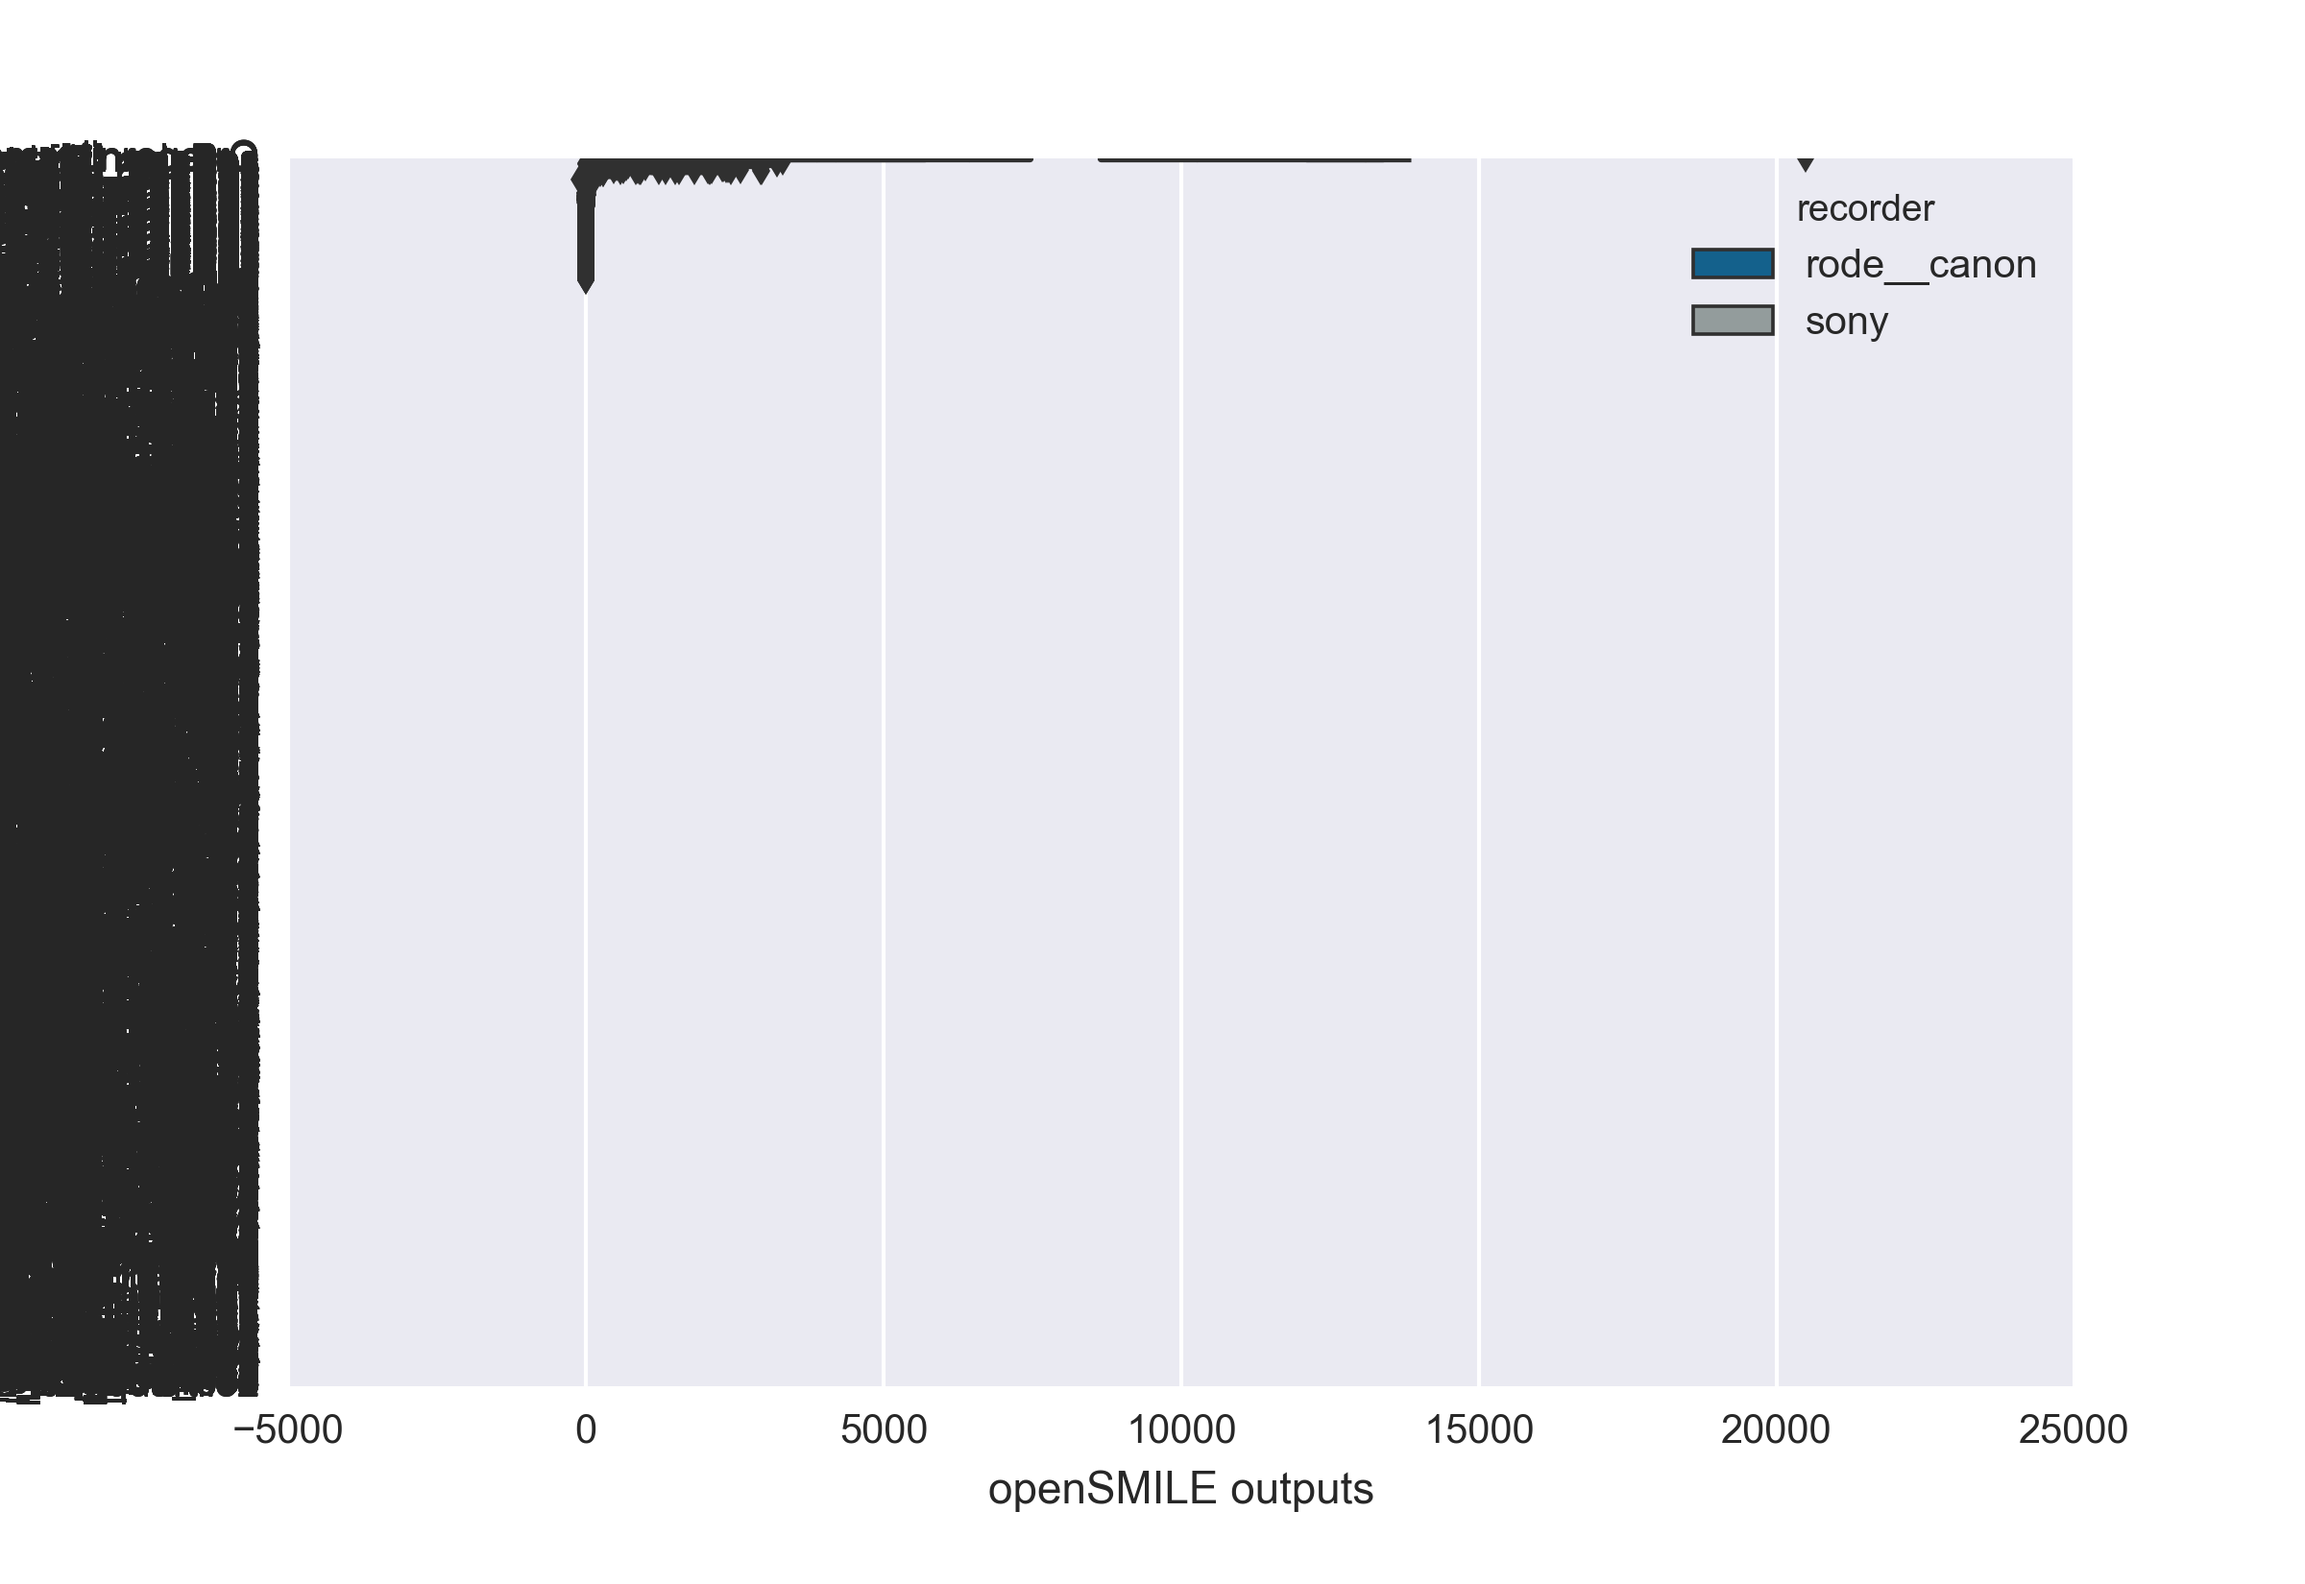
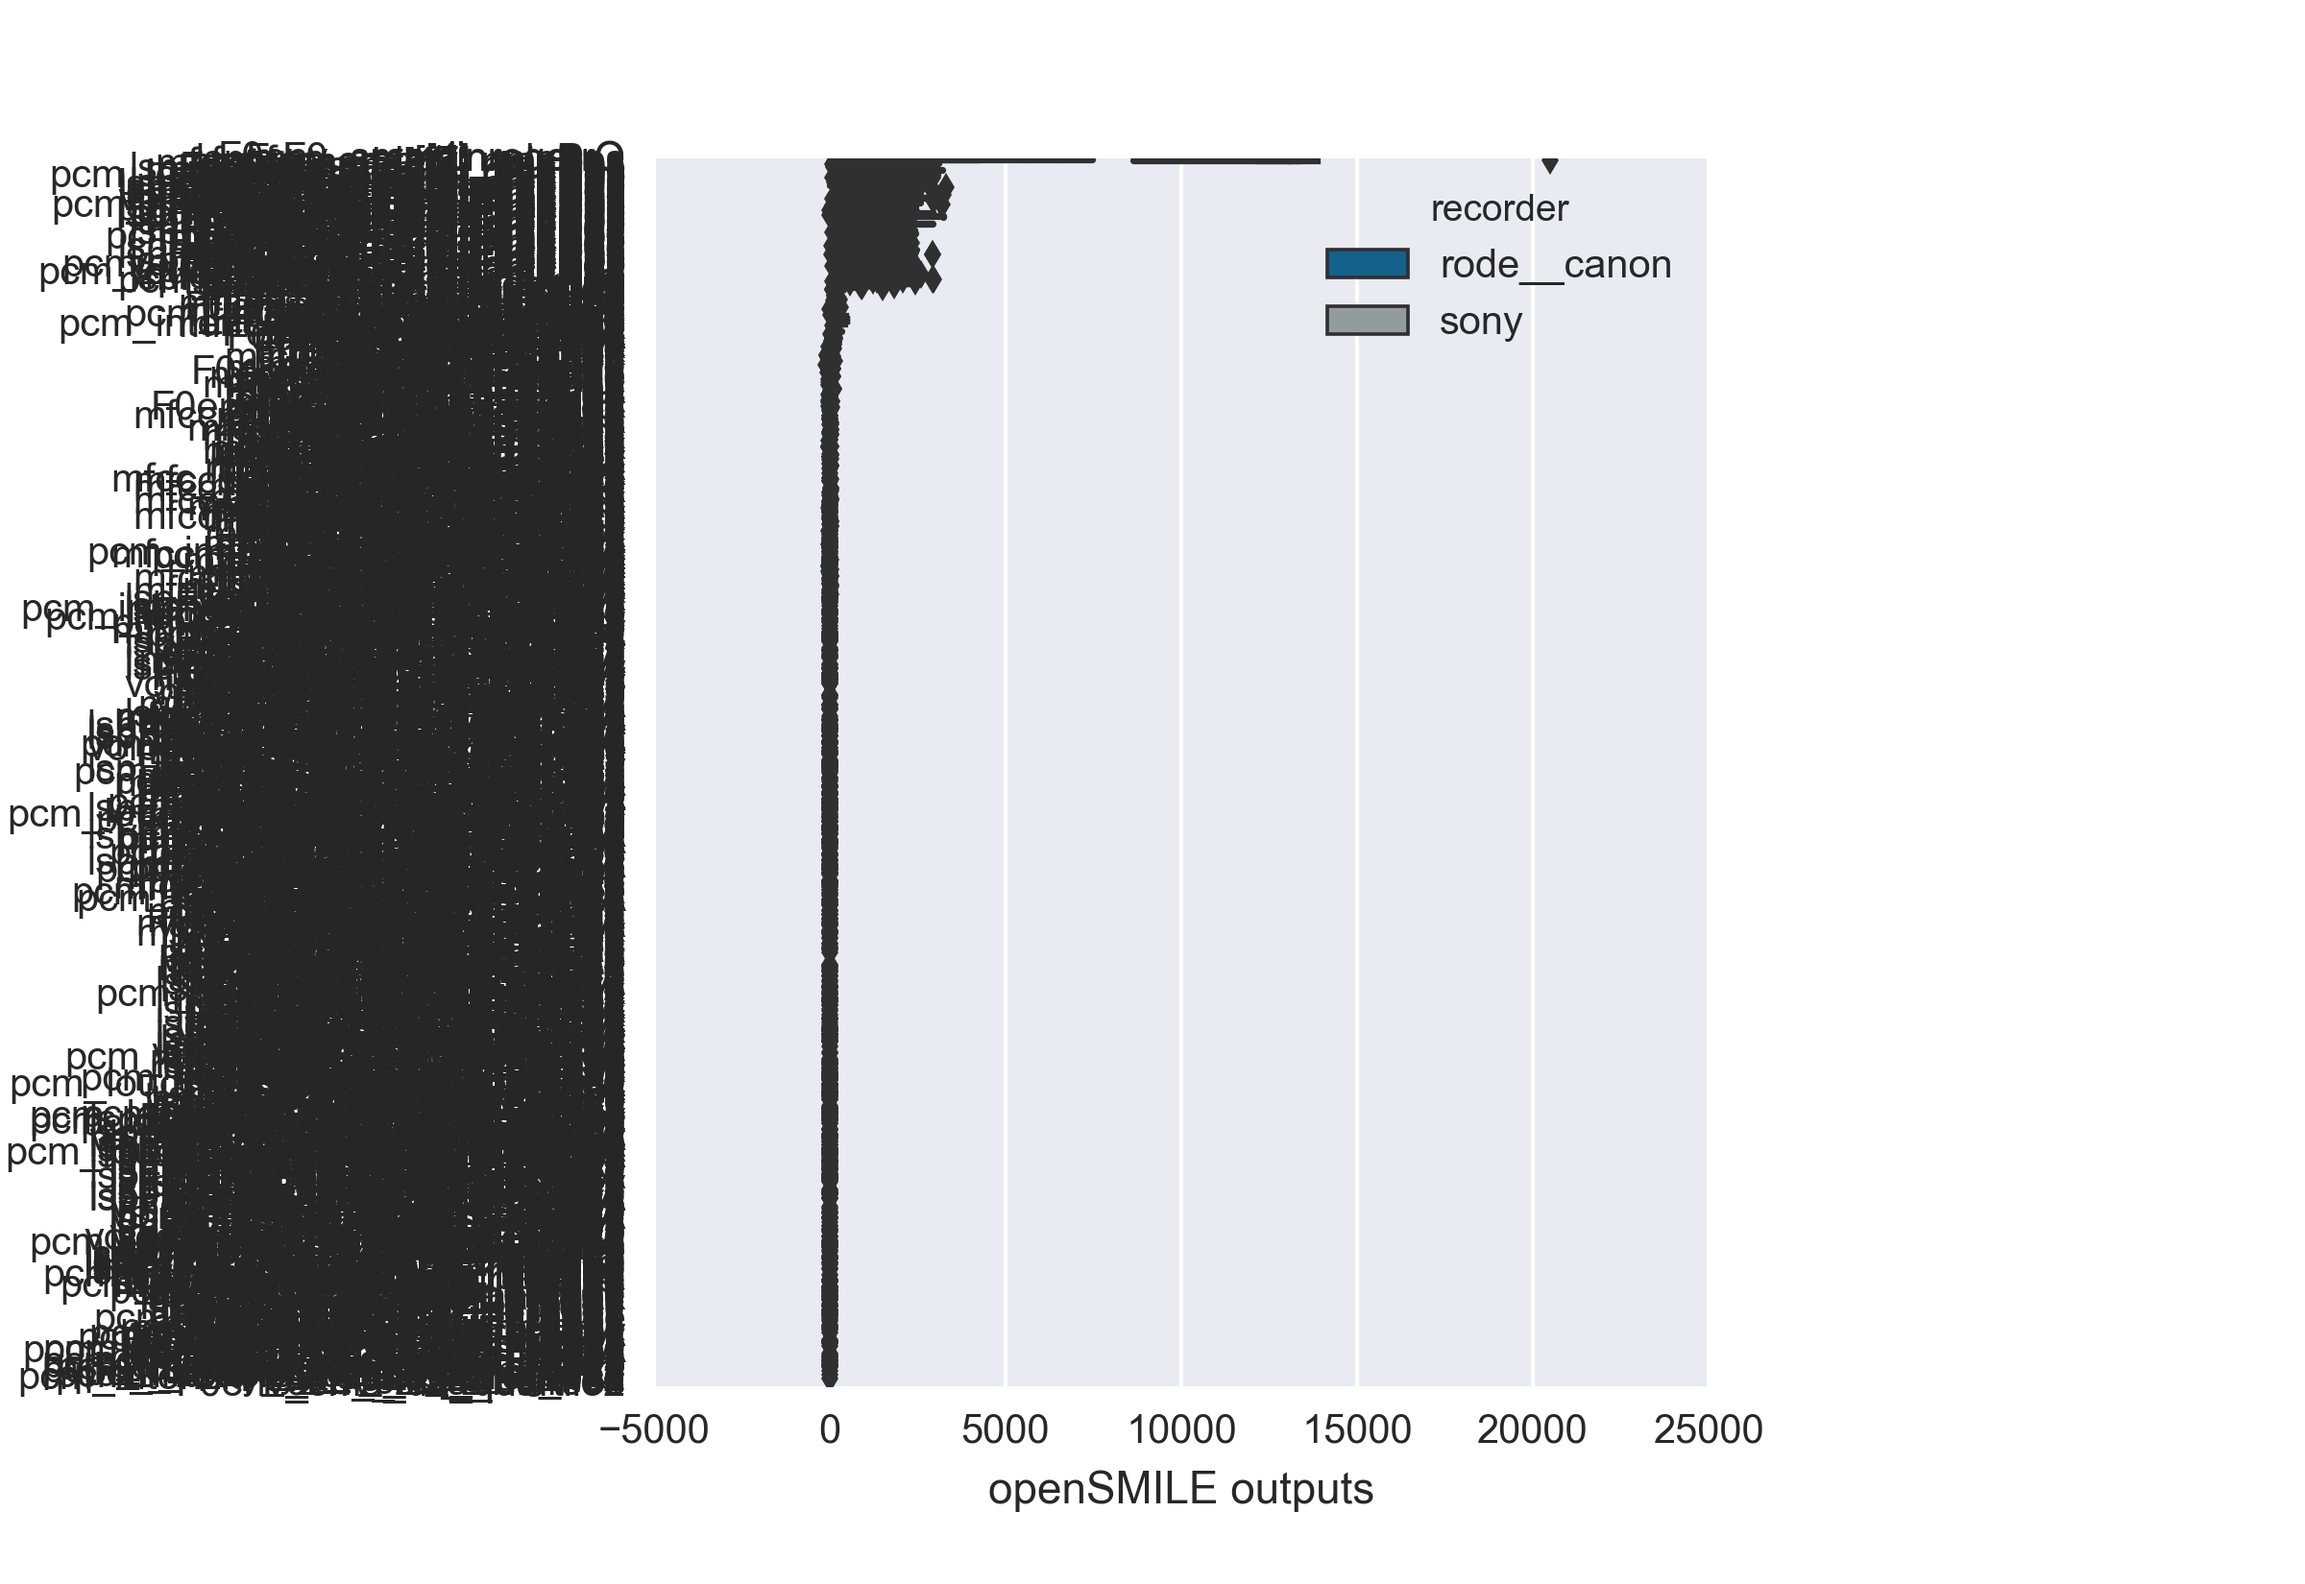
generalize

diff --git a/test_equipment/recorder_box_plots.py b/test_equipment/recorder_box_plots.py
@@ -11,15 +11,16 @@ Author:
 
 © 2017, Child Mind Institute, Apache v2.0 License
 """
-import numpy as np, openSMILE_dir_to_csv as odtc, os, pandas as pd, \
-       matplotlib.pyplot as plt, seaborn as sns, subprocess
+import os, sys
+if os.path.abspath('../..') not in sys.path:
+    sys.path.append(os.path.abspath('../..'))
+from SM_openSMILE.utilities import cmi_color_pallette as ccp
+import openSMILE_dir_to_csv as odtc, pandas as pd, matplotlib.pyplot as plt, \
+       seaborn as sns, subprocess
+
+sns.set_palette(ccp.cmi_colors())
 
 def plot(dataframe, directory):
-    cmi_colors = ["#0067a0", "#919d9d", "#00c1d5", "#b5bd00", "#a31c3f",
-                  "#ea234b", "#eeae30", "#f2cd32", "#4db789", "#90d9b9",
-                  "#404341", "#e4e4e4", "#090e3c", "#242a6a", "#97e2ef",
-                  "#f9e28a", "#d3da5f"]
-    sns.set_palette(cmi_colors)
     dataframe = dataframe.drop(['mean', 'median', 'std', 'mad'], axis=1)
     dataframe = dataframe.T
     indices = list(dataframe.index)
@@ -51,8 +52,9 @@ def plot(dataframe, directory):
     plt.close()
     h = sns.boxplot(x="openSMILE outputs", y="features", hue="recorder", data=
                     df_long)
-    plt.yticks(np.arange(len(df_long['features'].unique())), df_long['features'
-               ].unique())
+    h.set_aspect(28/len(df_long['features'].unique()))
+    # plt.yticks(np.arange(len(df_long['features'].unique())), df_long['features'
+    #           ].unique())
     # plt.tight_layout()
     fig_h = h.get_figure()
     fig_h.savefig(os.path.join(directory, "collected/horizontal_boxplot.png"), 
@@ -62,7 +64,8 @@ def plot(dataframe, directory):
     
 
 def main():
-    tippy_top = "/Users/jon.clucas/SM_openSMILE/test_equipment/recorder_test"
+    tippy_top = input("Top directory for recorder test: ")
+    # tippy_top = "/Users/jon.clucas/SM_openSMILE/test_equipment/recorder_test"
     top_dirs = [os.path.join(tippy_top, "sentences/ComParE_2016"),
                 os.path.join(tippy_top, "sentences/emobase"),
                 os.path.join(tippy_top, "word_list/ComParE_2016"),

diff --git a/openSMILE_runSM/openSMILE_csv.py b/openSMILE_runSM/openSMILE_csv.py
@@ -99,8 +99,11 @@ def get_dx_dictionary():
     # initialize diagnosis dictionary
     dx_dictionary = {}
     # absolute path to 2 column *.csv file with 'URSI' and 'Dx?' column headers
+    dictionary_csv = input("Diagnosis dictionary filepath: ")
+    """
     dictionary_csv = ('/Volumes/data/Research/CDB/SM_Sound_Analysis/'
                       'SM_DX_summary_status_dx.csv')
+    """
     # read file into dictionary with URSI keys and Dx values
     with open(dictionary_csv, 'r') as f:
         reader = csv.DictReader(f)
@@ -131,8 +134,11 @@ def create_sample_row(ursi, condition, config_file):
     sample_row_short = []
     sample_row_long = []
     # set absolute top directory for input *.csv files
+    topdir = input("Top directory for input *.csv files: ")
+    """
     topdir = ('/Volumes/data/Research/CDB/SM_Sound_Analysis/all_audio_files/'
               'NEW/')
+    """
     # get diagnosis dictionary
     dx_dict = get_dx_dictionary()
     # find participant directory
@@ -194,8 +200,11 @@ def create_samples(config_file):
         sample_short[condition] = []
         sample_long[condition] = []
     # set absolute path of top directory
+    topdir = input("Top directory for *.csv files: ")
+    """
     topdir = ('/Volumes/data/Research/CDB/SM_Sound_Analysis/all_audio_files/'
               'NEW/')
+    """
     for dirs in os.listdir(topdir):
         # do not include hidden files or directories
         # only take URSI directories
@@ -212,7 +221,8 @@ def create_samples(config_file):
                     # tell if something is missing
                     print (dirs + ' ' + condition)
     # set absolute path of output directory
-    out_top_dir = '/Volumes/data/Research/CDB/SM_Sound_Analysis/openSMILE/'
+    out_top_dir = input("Top directory for output files: ")
+    # out_top_dir = '/Volumes/data/Research/CDB/SM_Sound_Analysis/openSMILE/'
     # set path for subdirectory for config_file
     csv_path = os.path.join(out_top_dir,config_file)
     for condition in conditions:

diff --git a/test_equipment/setup_box_plots.py b/test_equipment/setup_box_plots.py
@@ -11,15 +11,16 @@ Author:
 
 © 2017, Child Mind Institute, Apache v2.0 License
 """
-import openSMILE_dir_to_csv as odtc, os, pandas as pd, matplotlib.pyplot as \
-       plt, seaborn as sns, subprocess
+import os, sys
+if os.path.abspath('../..') not in sys.path:
+    sys.path.append(os.path.abspath('../..'))
+from SM_openSMILE.utilities import cmi_color_pallette as ccp
+import openSMILE_dir_to_csv as odtc, pandas as pd, matplotlib.pyplot as plt, \
+       seaborn as sns, subprocess
+
+sns.set_palette(ccp.cmi_colors())
 
 def plot(dataframe, directory):
-    cmi_colors = ["#0067a0", "#919d9d", "#00c1d5", "#b5bd00", "#a31c3f",
-                  "#ea234b", "#eeae30", "#f2cd32", "#4db789", "#90d9b9",
-                  "#404341", "#e4e4e4", "#090e3c", "#242a6a", "#97e2ef",
-                  "#f9e28a", "#d3da5f"]
-    sns.set_palette(cmi_colors)
     dataframe = dataframe.drop(['mean', 'median', 'std', 'mad'], axis=1)
     dataframe = dataframe.T
     indices = list(dataframe.index)
@@ -48,7 +49,8 @@ def plot(dataframe, directory):
     plt.close()
 
 def main():
-    tippy_top = "PMAV"
+    tippy_top = input("Top directory for recorder setup test: ")
+    # tippy_top = "PMAV"
     top_dirs = [os.path.join(tippy_top, "ComParE_2016"),
                 os.path.join(tippy_top, "emobase")]
     for directory in top_dirs:

diff --git a/openSMILE_runSM/runSM.py b/openSMILE_runSM/runSM.py
@@ -22,7 +22,8 @@ Copyright 2015,  Sage Bionetworks (http://sagebase.org), Apache v2.0 License
 # os is Python's operating system library.
 # pandas is Python data analysis library.
 import os, sys
-sys.path.append(os.path.abspath('../..'))
+if os.path.abspath('../..') not in sys.path:
+    sys.path.append(os.path.abspath('../..'))
 import SM_openSMILE.openSMILE_runSM.mhealthx.mhealthx.extract as ex
 
 """
@@ -51,7 +52,8 @@ def runSM():
     feature_table : string
              output table file (full path)
     """
-    oS_directory = '/home/jclucas/opensmile-2.3.0/'
+    oS_directory = raw_input('openSMILE SMILExtract directory: ')
+    # oS_directory = '/home/jclucas/opensmile-2.3.0/'
     # get config filename from user.
     config_file = raw_input('config file filename: ')
     while not os.path.exists(os.path.join(oS_directory, "config",

diff --git a/utilities/README.md b/utilities/README.md
@@ -1,6 +1,10 @@
 # SM_openSMILE/utilities
 Scripts with functions to navigate specifically formatted data.
 
+##
+[`cmi_color_pallette.py`](https://github.com/shnizzedy/SM_openSMILE/blob/master/cmi_color_pallette.py)
+CMI color pallette.
+
 ## [`iterate_ursis.py`](https://github.com/shnizzedy/SM_openSMILE/blob/master/iterate_ursis.py)
 Script to iterate through [top_directory]/URSI/[subdirectory]/files structure
 and return a list of included files.
